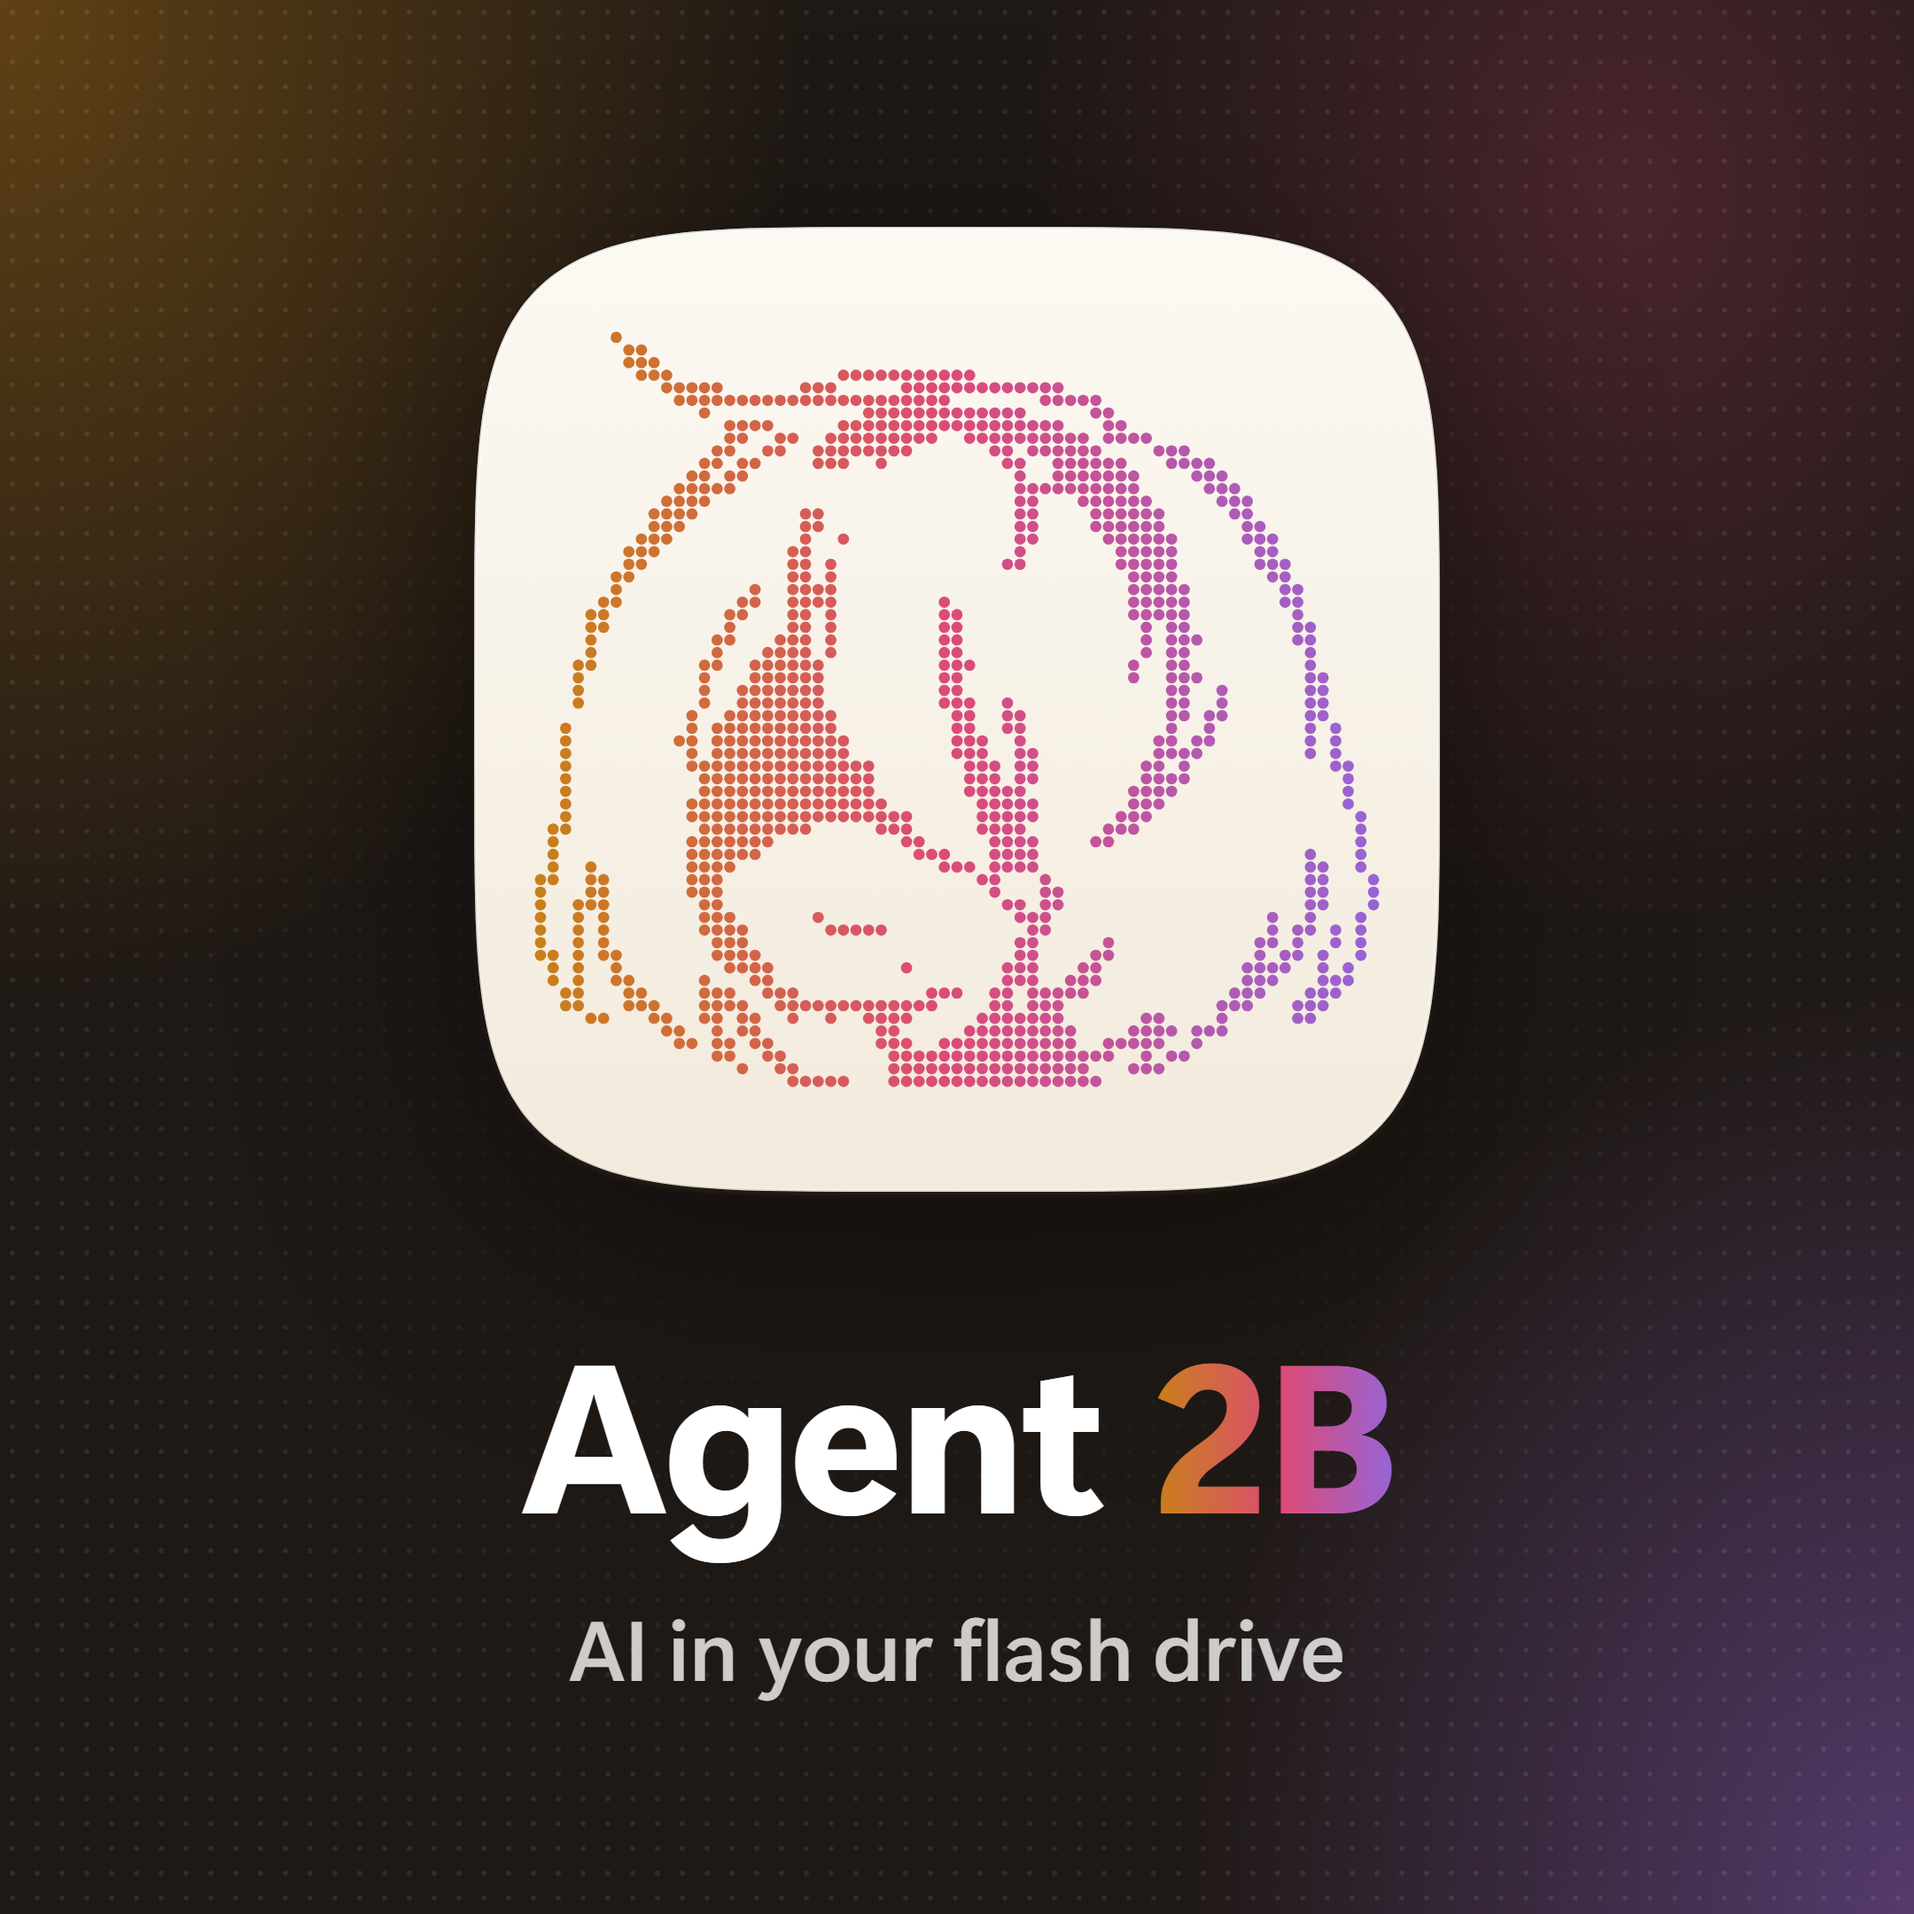
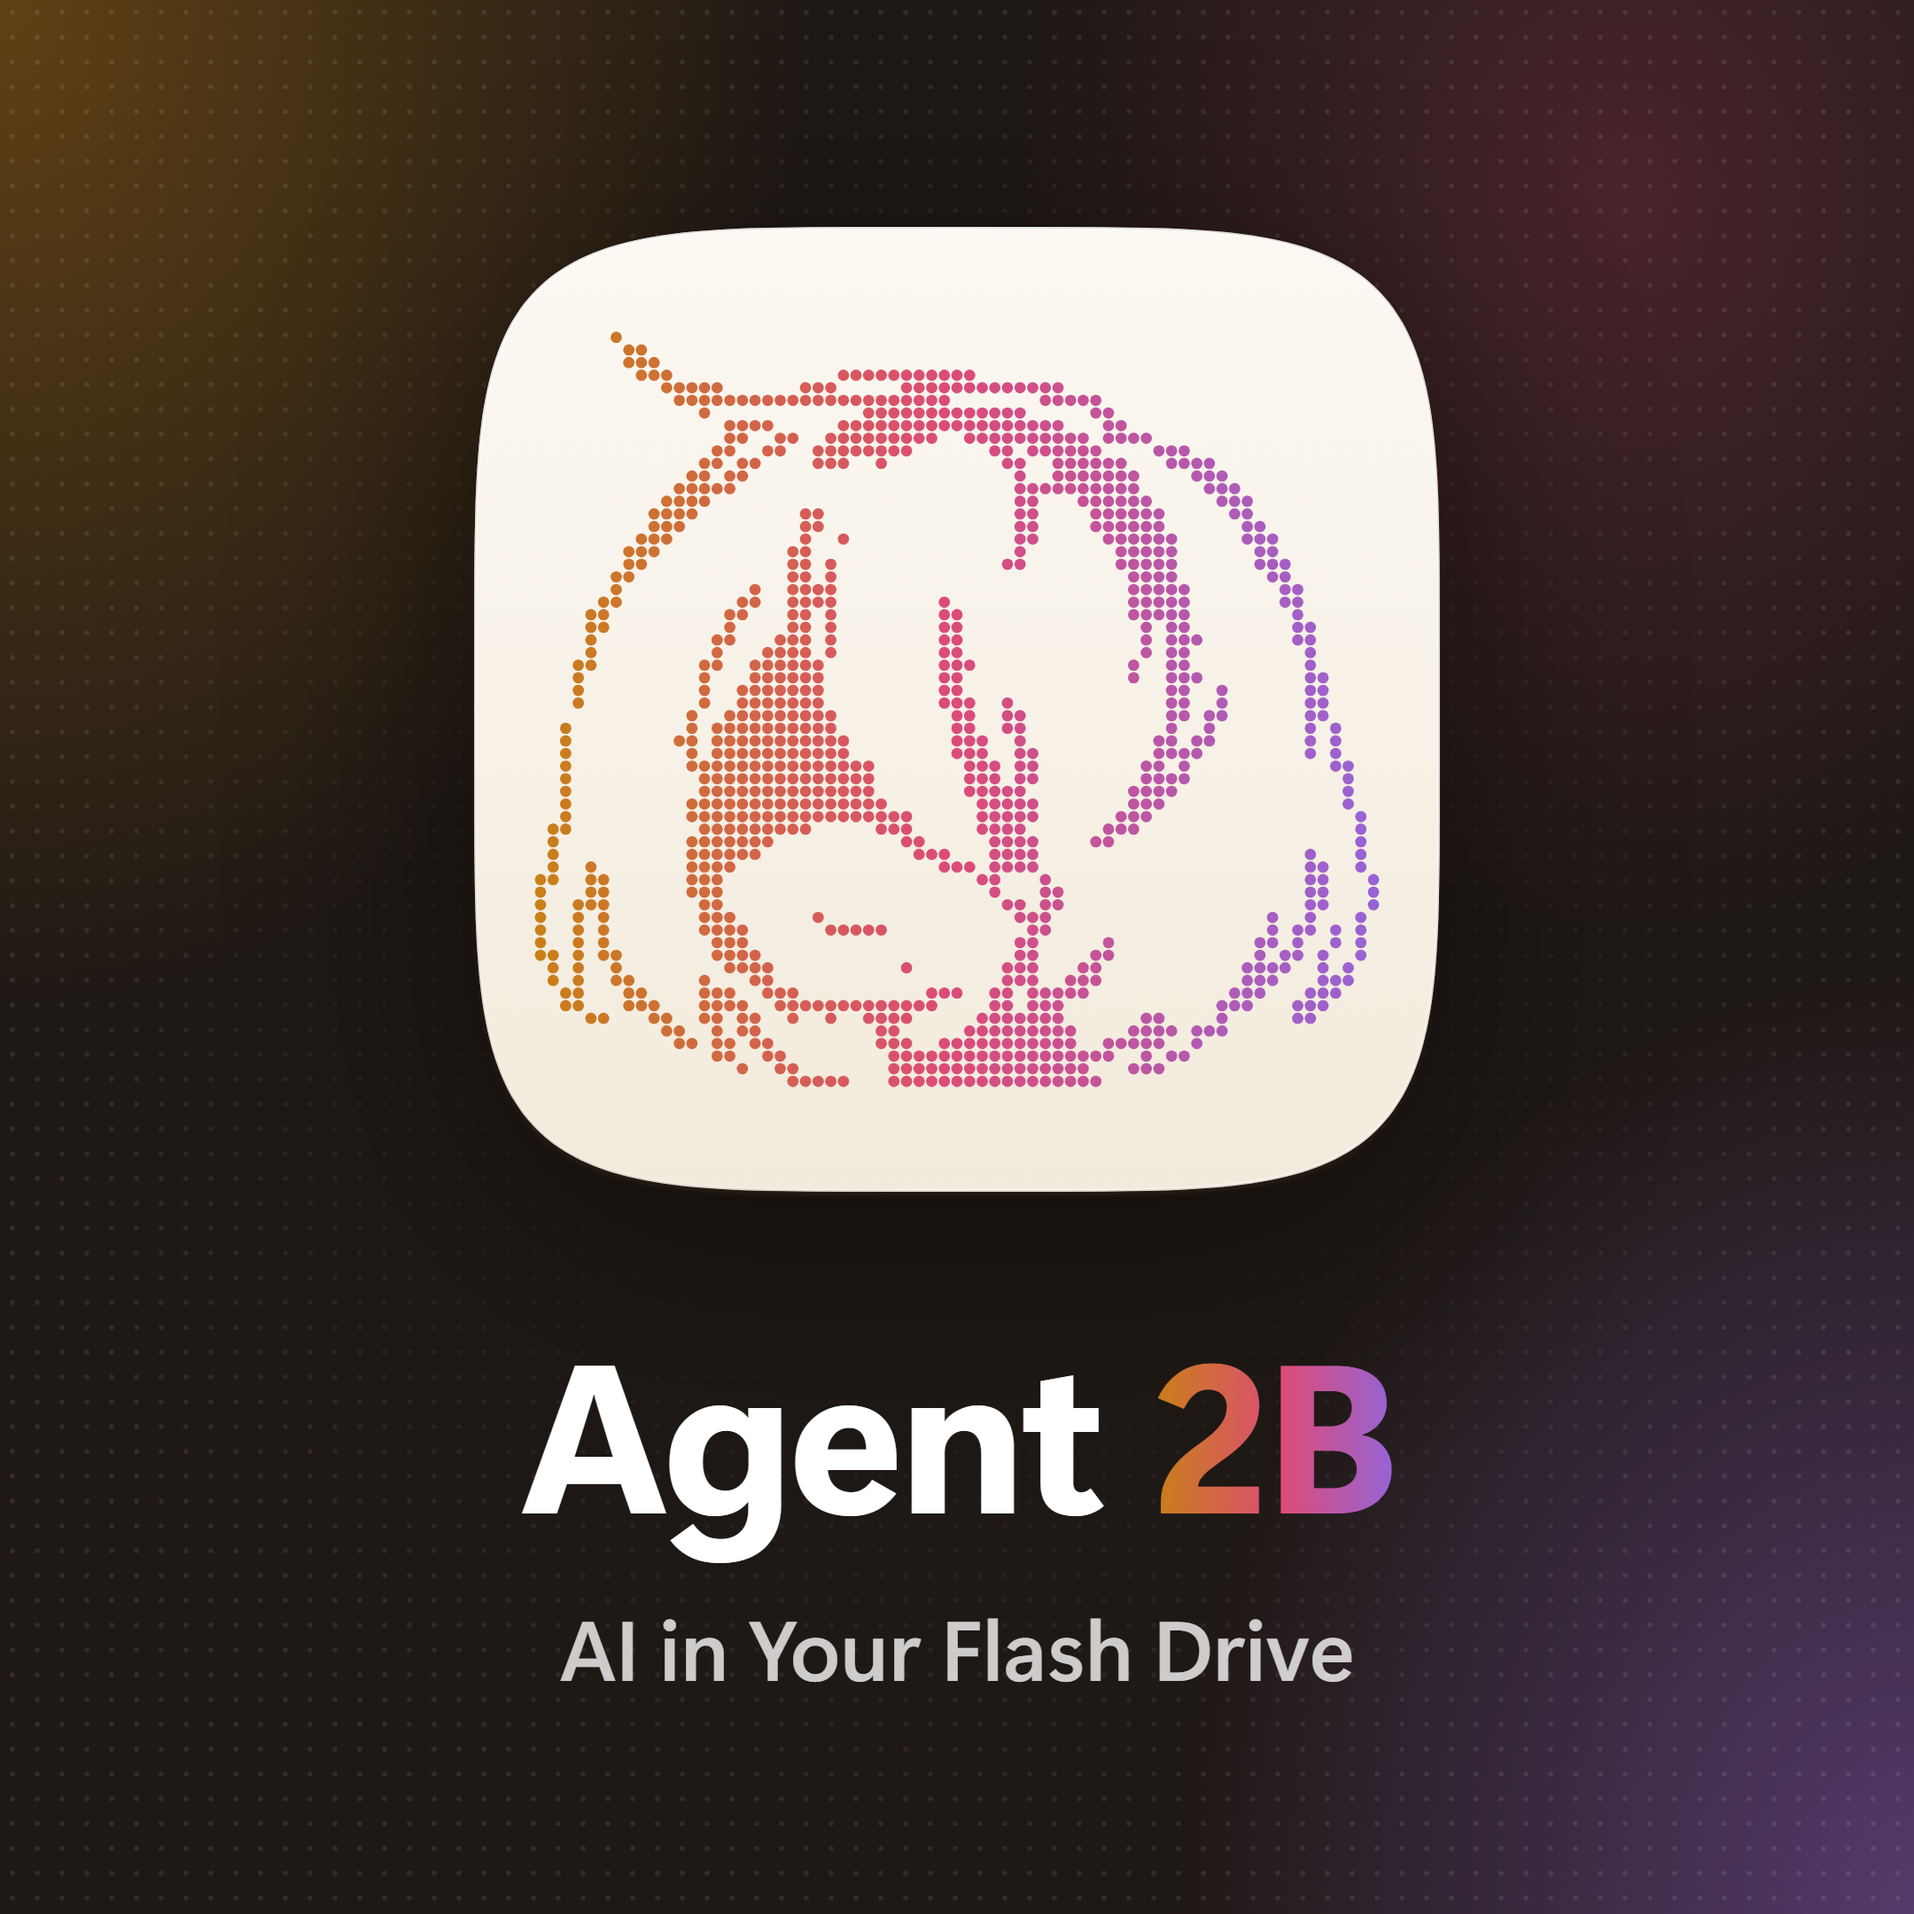
Store screenshots: the 14 GB promo, a chat variant, the GPUs 2B runs on
- Three screenshots now: the coding agent and the chatbot, each "fits into
  your own flash drive" over a 16 GB drive filled to 14 GB with the model's
  numbers; then "Runs on your gaming PC" with popular GPUs by 2B's verdict.
  The download and permission shots go.
- chat.png: a capture of the real Chat page, so rendering needs no model.
- The numbers move from docs/stats.svg, now gone, into the screenshots.
- The slogan in title case: AI in Your Flash Drive.

Changed region(s): [[0.2792, 0.8375, 0.5273, 0.8995], [0.5894, 0.8375, 0.7134, 0.8995]]

diff --git a/store/shots.html b/store/shots.html
@@ -1,8 +1,9 @@
 <!doctype html>
 <!-- The Store's screenshots: render.ps1 loads this page at 1366 x 768 (rendered at 2x) once per shot, named by the
-     hash (#promo, #home, ...). Each is a caption on the left and the real app on the right: the home page
-     (src/app/home.html) drawing the state 2B.exe would send it, or the terminal demo (docs/demo.svg) stopped at a
-     moment. Needs Edge's --allow-file-access-from-files, to read those files from file://. -->
+     hash (#promo, #chat, #home). Each is a caption on the left and the real app on the right: the home page
+     (src/app/home.html) drawing the state 2B.exe would send it, the terminal demo (docs/demo.svg) stopped at a
+     moment, or a capture of the Chat page (chat.png). Needs Edge's --allow-file-access-from-files, to read those
+     files from file://. -->
 <html lang="en">
 <head>
 <meta charset="utf-8">
@@ -19,6 +20,34 @@
   h1 { margin: 0; font-size: 40px; line-height: 1.1; font-weight: 700; letter-spacing: -0.02em; }
   .caption p { margin: 20px 0 0; font: 400 17px/1.5 "Segoe UI Variable Text", "Segoe UI", sans-serif; color: rgba(255, 255, 255, 0.78); }
   .facts { display: flex; flex-wrap: wrap; gap: 8px; margin-top: 28px; }
+  /* #promo: the size, big, over a 16 GB flash drive filled to it; then the other numbers. */
+  .size { margin-top: 34px; width: 310px; }
+  .size b { display: block; width: max-content; font-size: 58px; line-height: 1; font-weight: 700; letter-spacing: -0.03em; }
+  /* The size as a bar: a 16 GB drive, filled to it. */
+  .drive { position: relative; height: 30px; margin: 16px 0 0; border-radius: 6px; background: rgba(255, 255, 255, 0.1); border: 1px solid rgba(255, 255, 255, 0.25); }
+  .drive i { position: absolute; left: 3px; top: 3px; bottom: 3px; border-radius: 3px; background: var(--brand); }
+  .scale { display: flex; justify-content: space-between; margin: 8px 0 0; font: 400 14px "Segoe UI Variable Text", "Segoe UI", sans-serif; color: rgba(255, 255, 255, 0.78); }
+  .stats { display: flex; gap: 30px; margin-top: 30px; }
+  .stats b { display: block; font-size: 28px; line-height: 1.1; font-weight: 700; }
+  .stats span { font: 400 13px/1.4 "Segoe UI Variable Text", "Segoe UI", sans-serif; color: rgba(255, 255, 255, 0.7); }
+  /* #home: the GPUs, by verdict: each verdict in its color, each GPU outlined in the brand gradient. */
+  .tier { margin-top: 22px; }
+  .verdict { display: flex; align-items: baseline; gap: 8px; font: 700 15px "Segoe UI Variable Text", "Segoe UI", sans-serif; }
+  .verdict b { font-weight: inherit; }
+  .verdict.great b { background: var(--brand); -webkit-background-clip: text; background-clip: text; color: transparent; }
+  .verdict.good b { color: #f07fa3; }
+  .verdict.slow b { color: #e8b25a; }
+  .verdict span { font-weight: 400; font-size: 14px; color: rgba(255, 255, 255, 0.6); }
+  .gpus { display: flex; flex-wrap: wrap; gap: 6px; margin-top: 9px; }
+  .gpus span {
+    padding: 4px 10px; border-radius: 999px; font: 600 12px "Segoe UI Variable Text", "Segoe UI", sans-serif;
+    border: 1px solid transparent;
+  }
+  /* One gradient across the caption column (fixed to the page), not one per chip, so neighbours blend. */
+  .gpus span {
+    background: linear-gradient(#2a211c, #2a211c) padding-box, var(--brand) border-box;
+    background-attachment: scroll, fixed; background-size: auto, 330px 100%; background-position: 0 0, 60px 0;
+  }
   .facts span {
     padding: 6px 13px; border-radius: 999px; font: 600 13px "Segoe UI Variable Text", "Segoe UI", sans-serif;
     background: rgba(255, 255, 255, 0.1); border: 1px solid rgba(255, 255, 255, 0.2);
@@ -42,10 +71,11 @@
 </head>
 <body>
   <div class="caption">
-    <div class="app"><img src="../src/app/icon.svg" alt=""><span>Agent 2B<small>AI in your flash drive</small></span></div>
+    <div class="app"><img src="../src/app/icon.svg" alt=""><span>Agent 2B<small>AI in Your Flash Drive</small></span></div>
     <h1 id="title"></h1>
     <p id="text"></p>
     <div class="facts" id="facts"></div>
+    <div id="numbers"></div>
   </div>
   <div class="window">
     <div class="titlebar"><img src="../src/app/icon.svg" alt=""><span>Agent 2B</span><i>&#xE921;</i><i>&#xE922;</i><i>&#xE8BB;</i></div>
@@ -60,45 +90,63 @@ const READY = {
   version: "1.0.0", system: SYSTEM, model: { ...MODEL, ready: true }, download: null,
   server: { state: "ready", plan: { context: 65536, gpu: 5896, ram: 7673 } }, error: null,
 };
-const DOWNLOADING = {
-  ...READY, model: { ...MODEL, ready: false },
-  download: { active: true, done: Math.round(MODEL.size * 0.43), total: MODEL.size, speed: 31e6, error: null },
-  server: { state: "stopped", plan: null },
-};
 
-// Each shot: its caption, and what's in the window: a home page state, or the demo at a time (s).
+// The promo shots' numbers. build\Agent 2B plus the model: 13.8 GB (12.8 GiB), so it fits a 16 GB stick.
+const NUMBERS = `
+      <div class="size">
+        <b class="brand">14 GB</b>
+        <div class="drive"><i style="width: calc(13.8 / 16 * (100% - 6px))"></i></div>
+        <div class="scale"><span>The model and all its tools</span><span>16 GB</span></div>
+      </div>
+      <div class="stats">
+        <div><b>20.9&nbsp;B</b><span>total<br>parameters</span></div>
+        <div><b>64&nbsp;k</b><span>tokens of<br>context</span></div>
+        <div><b>$0</b><span>no cloud, no<br>account, no API key</span></div>
+      </div>`;
+
+// Popular GPUs by the verdict 2B's check gives them (Requirements in app.cs), with 16 GB of RAM: Great is 16 GB of
+// VRAM or more, Good is an RTX with 8 to 12 GB, Slow is 6 GB or a GTX 10-series (no tensor cores).
+const GPUS = [
+  ["great", "Great", "the whole model on the GPU", ["RTX 5090", "RTX 5080", "RTX 5070 Ti", "RTX 5060 Ti 16 GB", "RTX 4090", "RTX 4080", "RTX 4070 Ti Super", "RTX 4060 Ti 16 GB", "RTX 3090"]],
+  ["good", "Good", "desktop and laptop", ["RTX 5070", "RTX 5060", "RTX 4070", "RTX 4060", "RTX 3080", "RTX 3070", "RTX 3060", "RTX 2080", "RTX 2070", "RTX 2060 Super"]],
+  ["slow", "Slow", "works, replies come slower", ["RTX 2060", "GTX 1660", "GTX 1080 Ti", "GTX 1080", "GTX 1070", "GTX 1060 6 GB"]],
+].map(([tier, verdict, note, names]) => `
+  <div class="tier ${tier}"><div class="verdict ${tier}"><b>${verdict}</b><span>${note}</span></div>
+  <div class="gpus">${names.map(n => `<span>${n}</span>`).join("")}</div></div>`).join("");
+
+// Each shot: its caption, and what's in the window: a home page state, the demo at a time (s), or an image of the
+// window's contents at 940 x 680 (chat.png: a capture of the real Chat page, at 2x).
 const SHOTS = {
   promo: {
-    title: 'An AI coding agent on <span class="brand">your own GPU.</span>',
-    text: "No cloud, no account, no subscription. 2B reads, edits and runs things in your projects, and asks before it changes anything.",
-    facts: ["Runs offline", "NVIDIA, 6 GB VRAM+", "Open source"],
-    demo: 31,
+    title: 'An AI coding agent fits into <span class="brand">your own flash drive.</span>',
+    numbers: NUMBERS,
+    demo: 10,
+  },
+  chat: {
+    title: 'An AI chatbot fits into <span class="brand">your own flash drive.</span>',
+    numbers: NUMBERS,
+    image: "chat.png",
   },
   home: {
-    title: 'Fitted to <span class="brand">your PC.</span>',
-    text: "2B checks your GPU before anything downloads, then splits the model between VRAM and RAM to fit. There's nothing to set up.",
+    title: 'Runs on <span class="brand">your gaming PC.</span>',
+    text: "No pricey workstation or data-center card. The GeForce you game on is enough, and 2B fits the model to it.",
+    numbers: GPUS,
     home: READY,
-  },
-  download: {
-    title: 'One download, <span class="brand">then it\'s yours.</span>',
-    text: "The model is a 12 GB download, once. If it's interrupted, it resumes, even after a restart. After that it runs without the internet.",
-    home: DOWNLOADING,
-  },
-  permission: {
-    title: 'It asks <span class="brand">first.</span>',
-    text: "Commands, file edits and web pages wait for your yes. Edits show as a diff first, and after a no you can say why.",
-    demo: 10,
   },
 };
 
 const shot = SHOTS[location.hash.slice(1)];
 if (!shot) throw new Error("Unknown shot " + location.hash);
 document.getElementById("title").innerHTML = shot.title;
-document.getElementById("text").textContent = shot.text;
+document.getElementById("text").textContent = shot.text || "";
+if (!shot.text) document.getElementById("text").remove();
+document.getElementById("numbers").innerHTML = shot.numbers || "";
 document.getElementById("facts").innerHTML = (shot.facts || []).map(f => `<span>${f}</span>`).join("");
 const win = document.querySelector(".window");
 
-if (shot.home) {
+if (shot.image) {
+  win.insertAdjacentHTML("beforeend", `<img class="client" src="${shot.image}" alt="">`);
+} else if (shot.home) {
   const frame = document.createElement("iframe");
   frame.className = "client";
   frame.src = "../src/app/home.html";

diff --git a/store/logo.html b/store/logo.html
@@ -26,6 +26,6 @@
 <body>
   <img src="../src/app/icon.svg" alt="">
   <h1>Agent <span class="brand">2B</span></h1>
-  <p>AI in your flash drive</p>
+  <p>AI in Your Flash Drive</p>
 </body>
 </html>

diff --git a/store/LISTING.md b/store/LISTING.md
@@ -7,7 +7,7 @@ submission asks for. Images are in [listing/](listing/), rendered by
 ## Description
 
 ```
-AI in your flash drive.
+AI in Your Flash Drive.
 
 Agent 2B is an AI coding agent that runs entirely on your own computer. The model, gpt-oss-20b, runs on your NVIDIA GPU through llama.cpp, so what you ask and the files it reads never leave your PC. No account, no API key, no subscription.
 
@@ -65,10 +65,9 @@ Open source (Apache 2.0)
 
 Upload in this order (the first is shown first):
 
-1. `listing/screenshot-1-promo.png`
-2. `listing/screenshot-2-home.png`
-3. `listing/screenshot-3-download.png`
-4. `listing/screenshot-4-permission.png`
+1. `listing/screenshot-1-promo.png`: the coding agent
+2. `listing/screenshot-2-chat.png`: the chatbot
+3. `listing/screenshot-3-home.png`: the GPUs it runs on
 
 ## Store logos
 
@@ -90,7 +89,7 @@ Leave empty.
 - **Short description** (270 characters or fewer):
 
   ```
-  AI in your flash drive: a coding agent that runs on your own NVIDIA GPU. It reads, edits and runs things in your projects, asking before every change, and nothing you ask leaves your PC. No account, no API key, no subscription. Needs an NVIDIA GPU with 6 GB+ of VRAM.
+  AI in Your Flash Drive: a coding agent that runs on your own NVIDIA GPU. It reads, edits and runs things in your projects, asking before every change, and nothing you ask leaves your PC. No account, no API key, no subscription. Needs an NVIDIA GPU with 6 GB+ of VRAM.
   ```
 
 ## Additional information

diff --git a/README.md b/README.md
@@ -5,17 +5,17 @@
   <a href="#try-it"><img src="docs/badges/badge-microsoft-store.svg" height="50"></a>
   <a href="https://github.com/chengmarc/agent-2b/releases/latest"><img src="docs/badges/badge-download.svg" height="50"></a>
 
-  <h1>Agent 2B - AI in your flash drive</h1>
+  <h1>Agent 2B - AI in Your Flash Drive</h1>
   
   <img src="store/listing/screenshot-1-promo.png">
+  <img src="store/listing/screenshot-2-chat.png">
+  <img src="store/listing/screenshot-3-home.png">
 
 </div>
 
-## Specification & Demonstration
+## Demonstration
 
-  <img src="docs/stats.svg">
   <img src="docs/demo.svg">
-
 
 ## Try it
 
